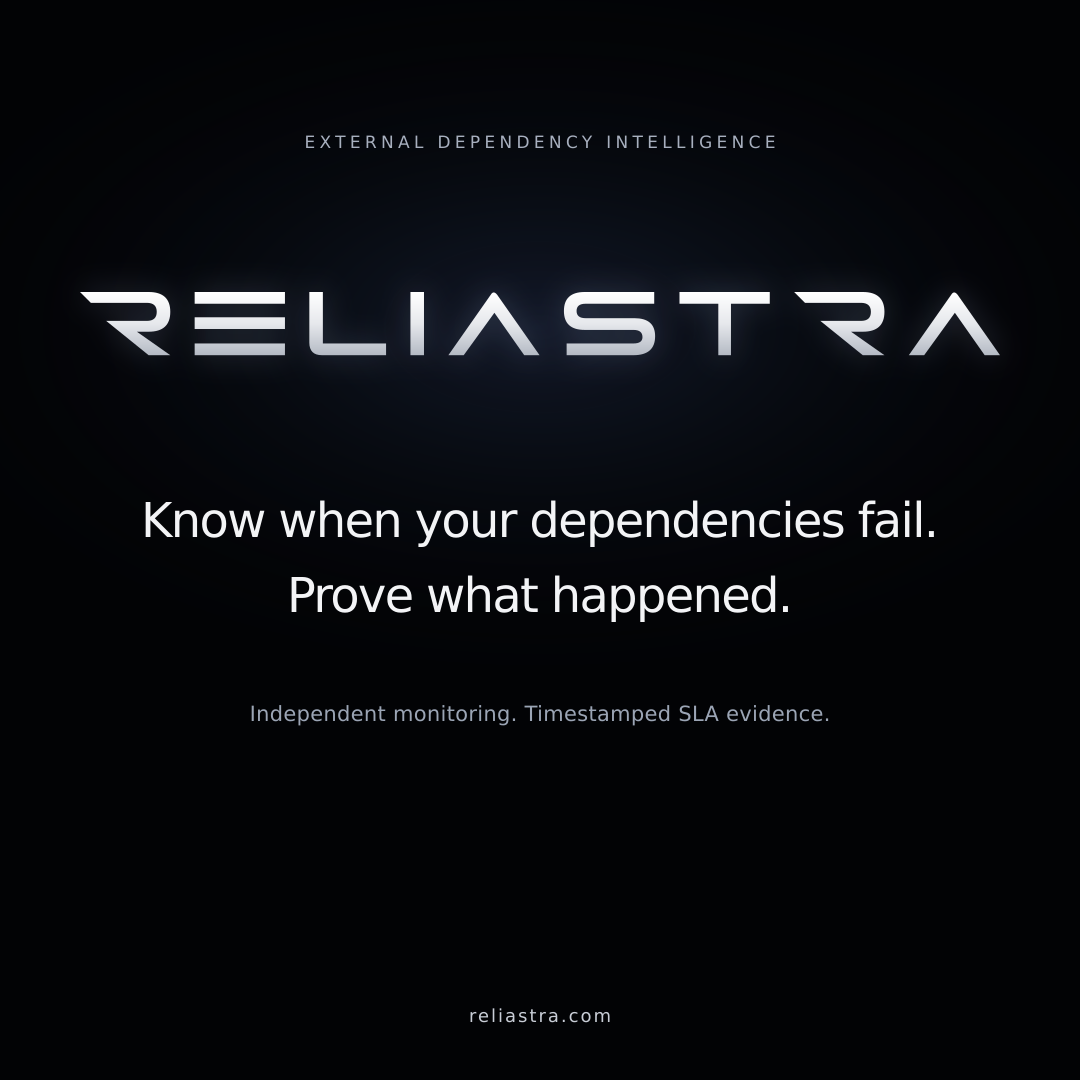
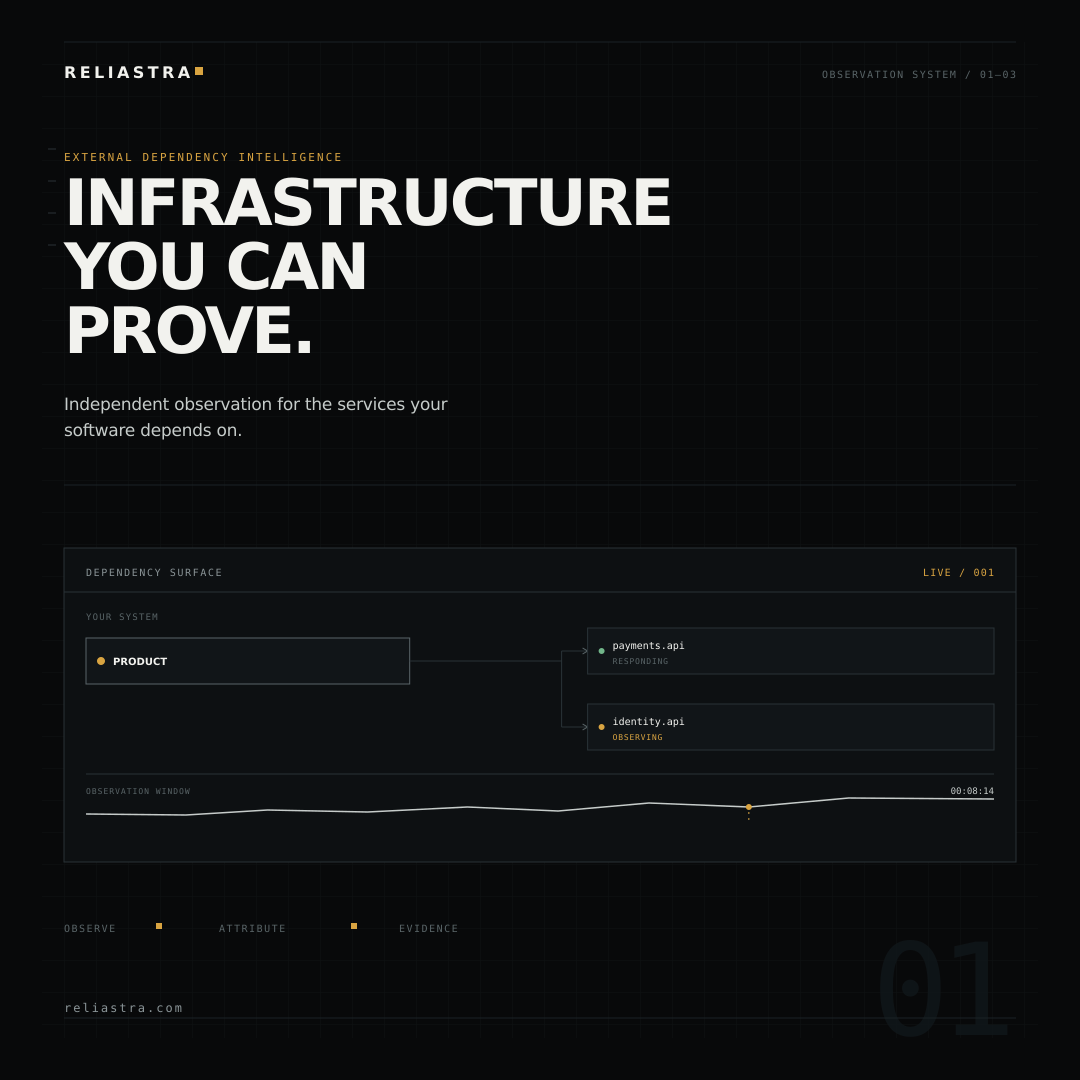
Redesign Reliastra social share artwork

diff --git a/frontend/public/social/README.md b/frontend/public/social/README.md
@@ -6,7 +6,7 @@
 - `reliastra-og.svg` and `reliastra-social-square.svg`: editable vector artwork.
 - `reliastra-email-avatar.svg`: editable vector source of the email avatar.
 
-The silver wordmark is a vector interpretation of the user-provided visual reference, not the original uploaded file (which was unavailable in the workspace). Replace the glyph paths with official source artwork when available. The favicon and other site branding are unchanged.
+The social cards use the public site's obsidian infrastructure language: an asymmetric typographic lockup, instrument-panel geometry, hairline grid, and a single amber observation signal. They are intentionally not a logo poster; the message and the dependency surface should still read at thumbnail size. The silver wordmark is retained only for the email avatar and is a vector interpretation of the user-provided visual reference, not the original uploaded file (which was unavailable in the workspace). Replace the glyph paths with official source artwork when available. The favicon and other site branding are unchanged.
 
 ## Research paper cards
 
